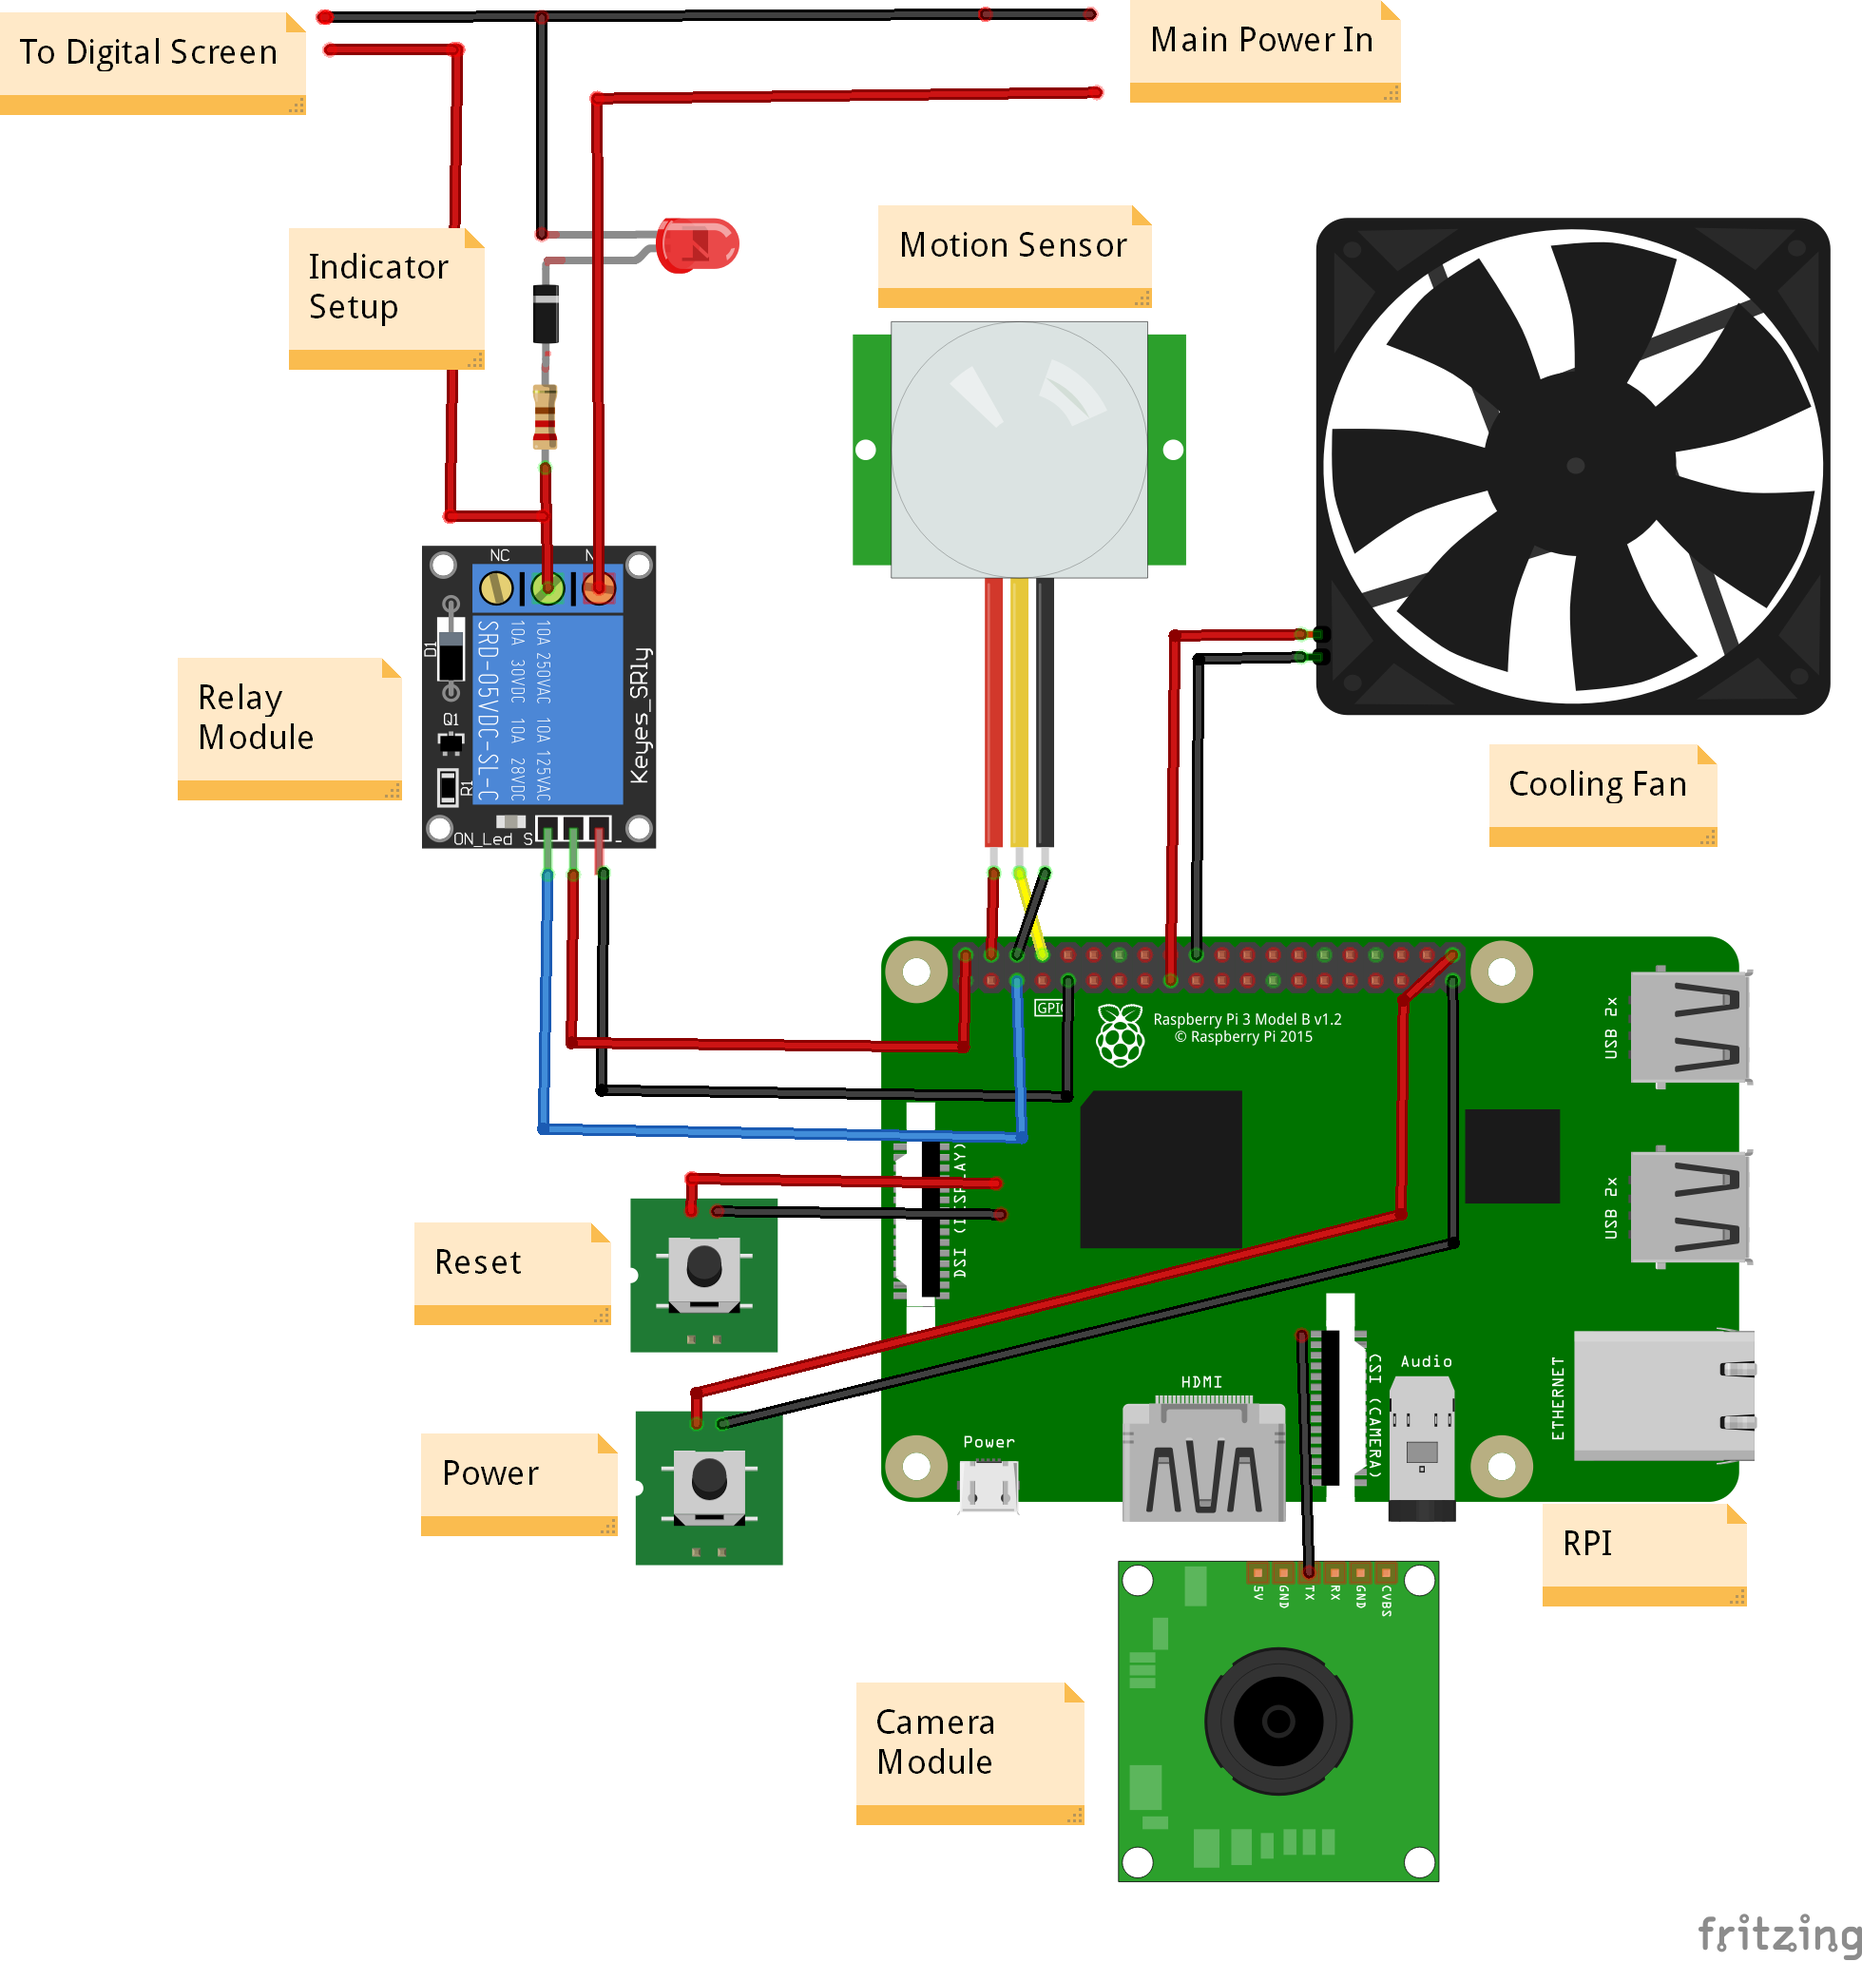
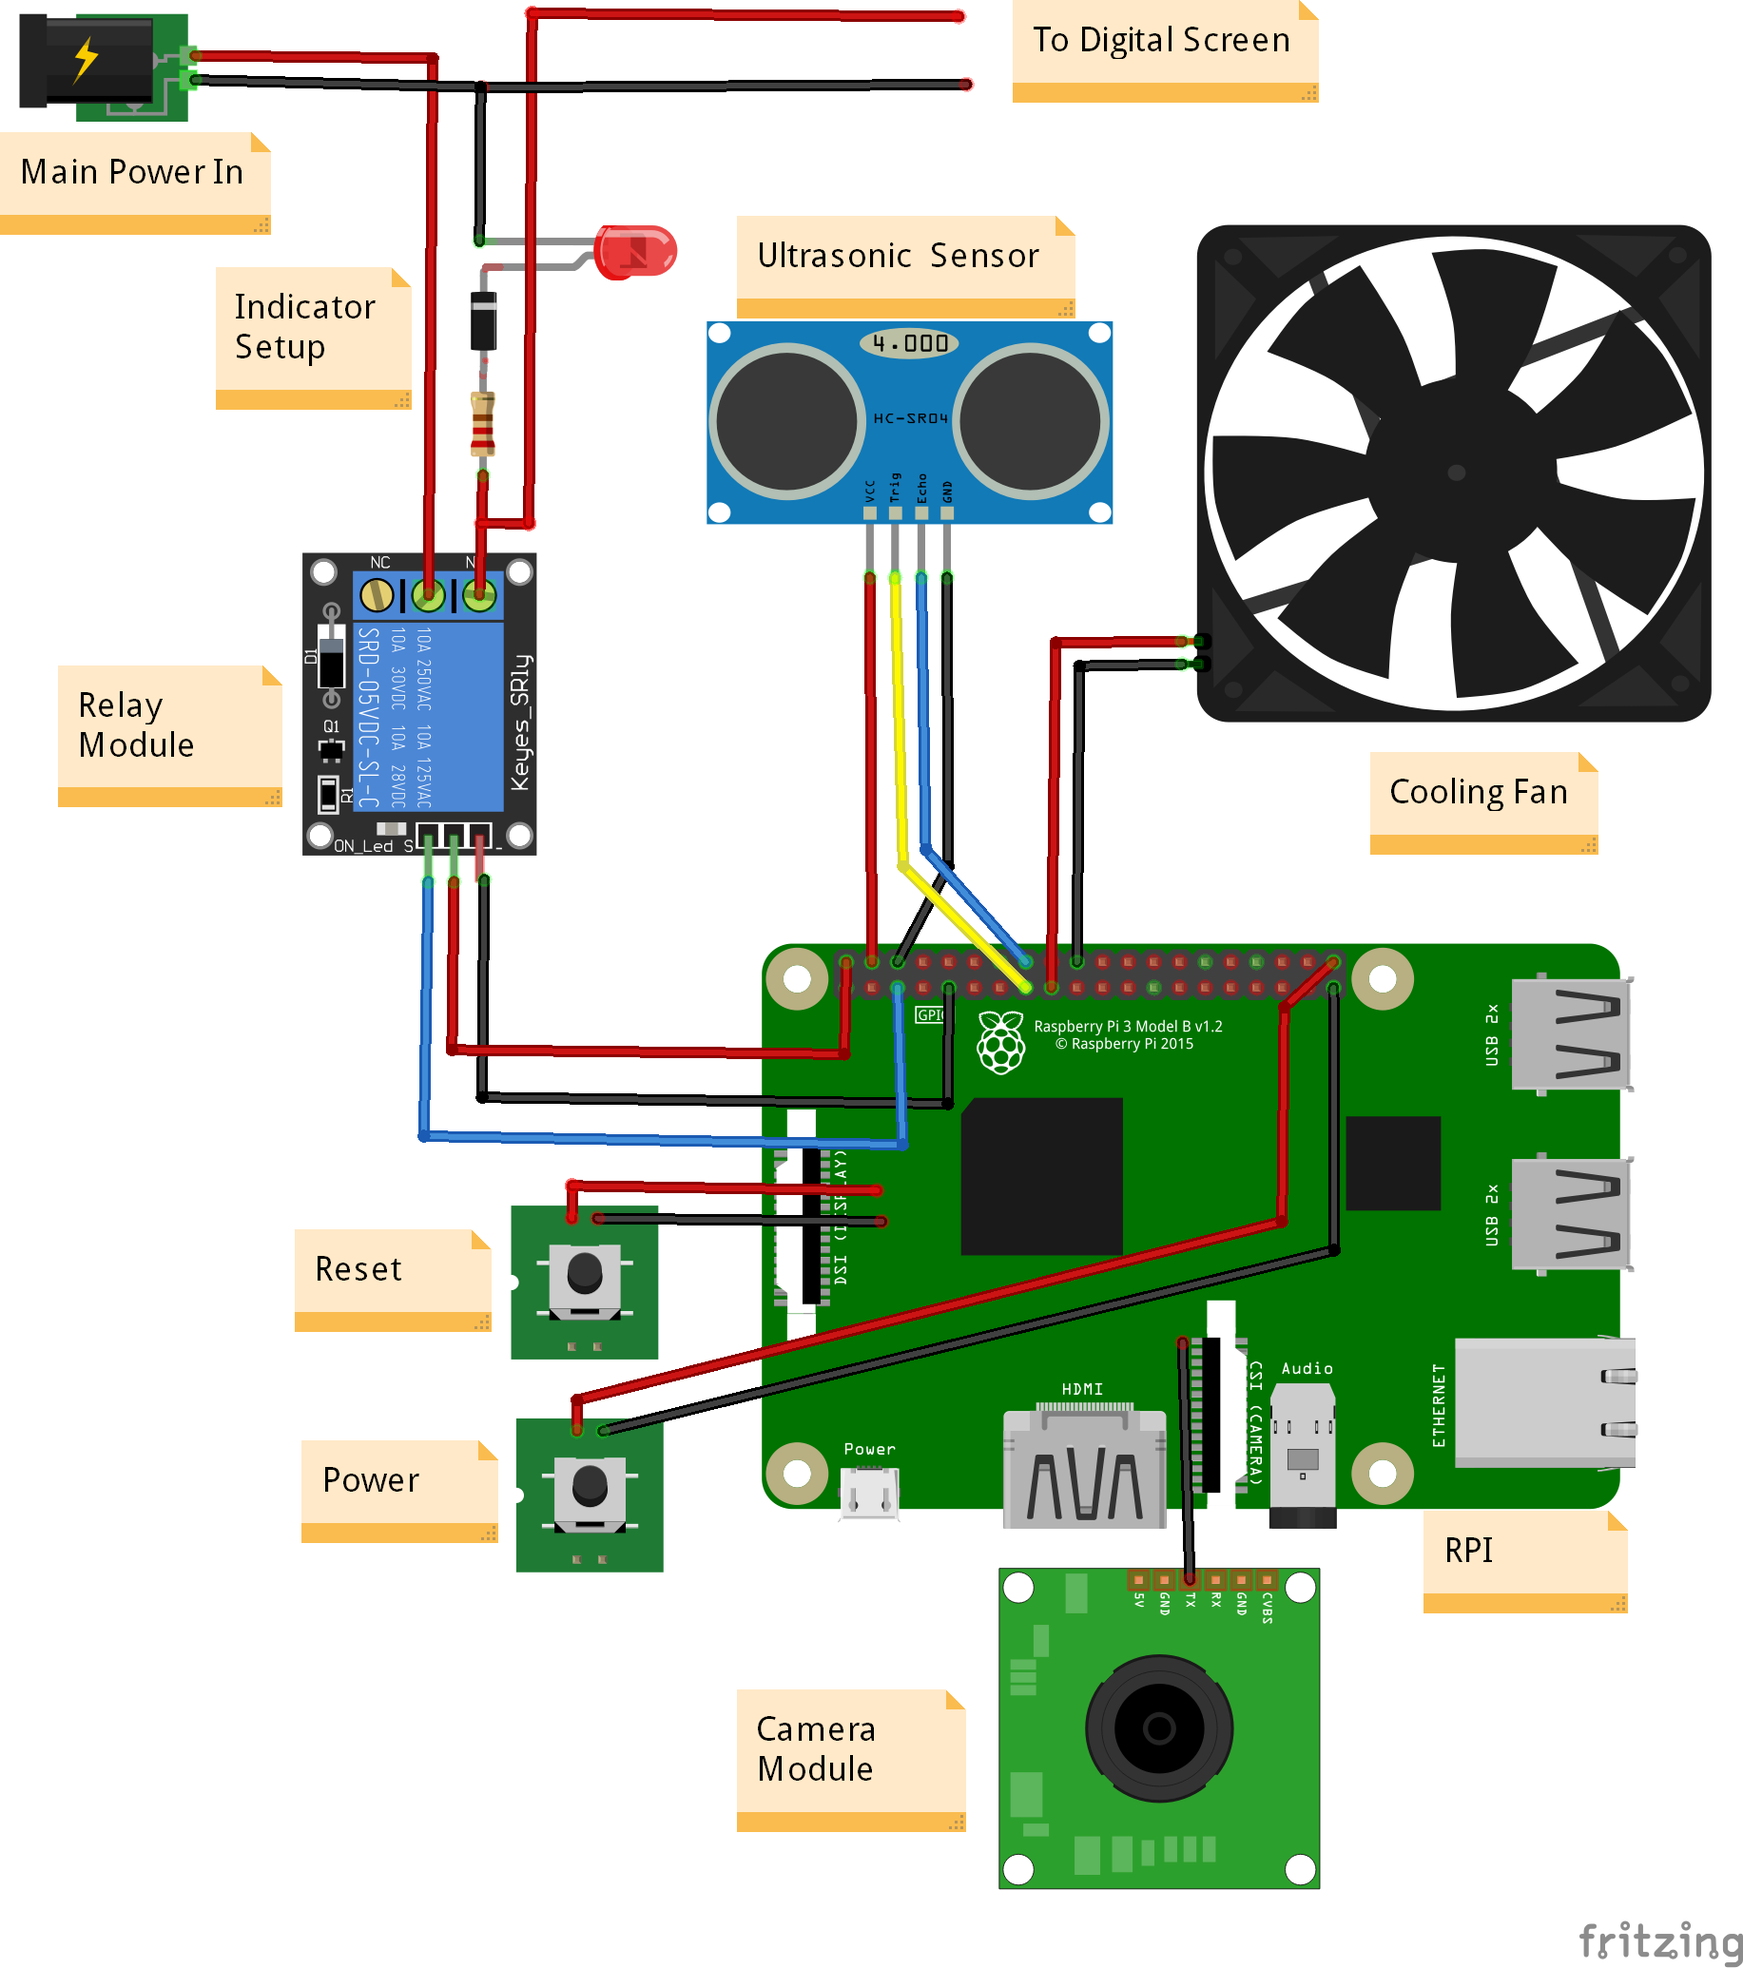
circuit updated

Changed region(s): [[0.0, 0.0, 0.9951, 0.9612], [0.9018, 0.9612, 1.0, 1.0], [0.9329, 0.7752, 0.964, 0.8062]]

diff --git a/docs/index.html b/docs/index.html
@@ -151,7 +151,7 @@
                             <h5 class="text-left mt-4 mb-2" style="padding-left: 70px">User Identifying and Detecting Unit</h5>
                             <ul style="line-height: 180%;padding-left: 100px">
                                 
-                                <li>Motion Sensor - &#36 5</li>
+                                <li>Ultrasonic Sensor - &#36 5</li>
                                 <li>Camera Module - &#36 10</li>
                                 <li>Cables - &#36 5</li>
                                 <li>LEDs, Resitors(220&#8486) - &#36 3</li>
@@ -160,7 +160,7 @@
                             <h5 class="text-left mt-4 mb-2" style="padding-left: 70px">Smart Power Supply Unit</h5>
                             <ul style="line-height: 180%;padding-left: 100px">
                                 
-                                <li>Relay - &#36 5</li>
+                                <li>Relay Module - &#36 5</li>
                                 <li>Switch - &#36 5</li>
                                 <li>Cables - &#36 8</li>
                                 <li>LED, Diode, Resitor(100k&#8486) - &#36 5</li>
